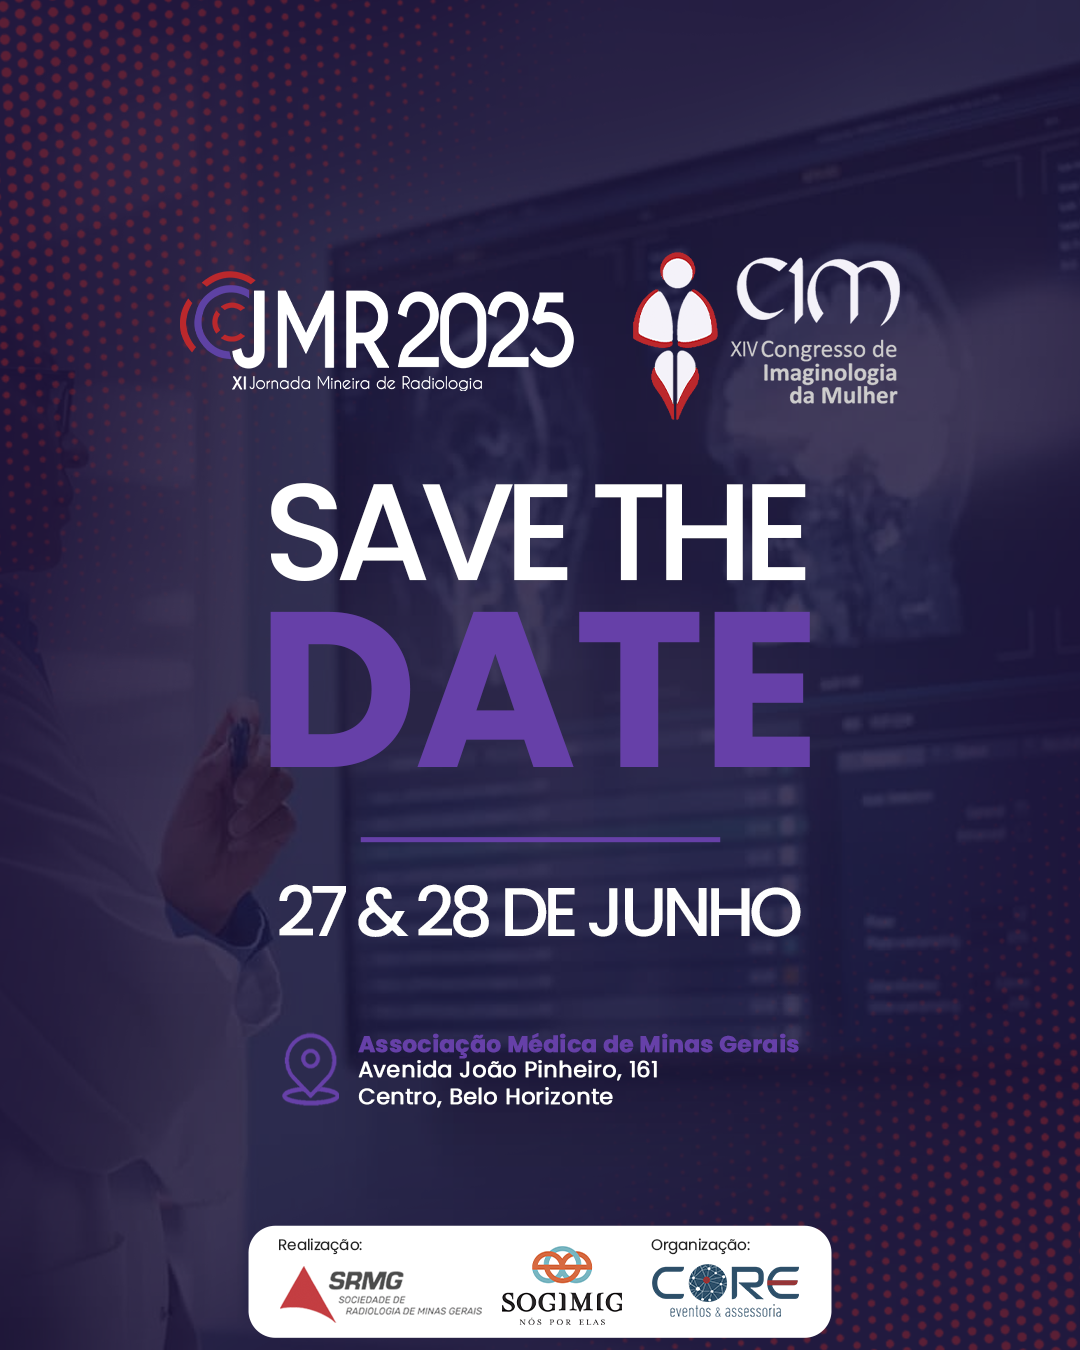
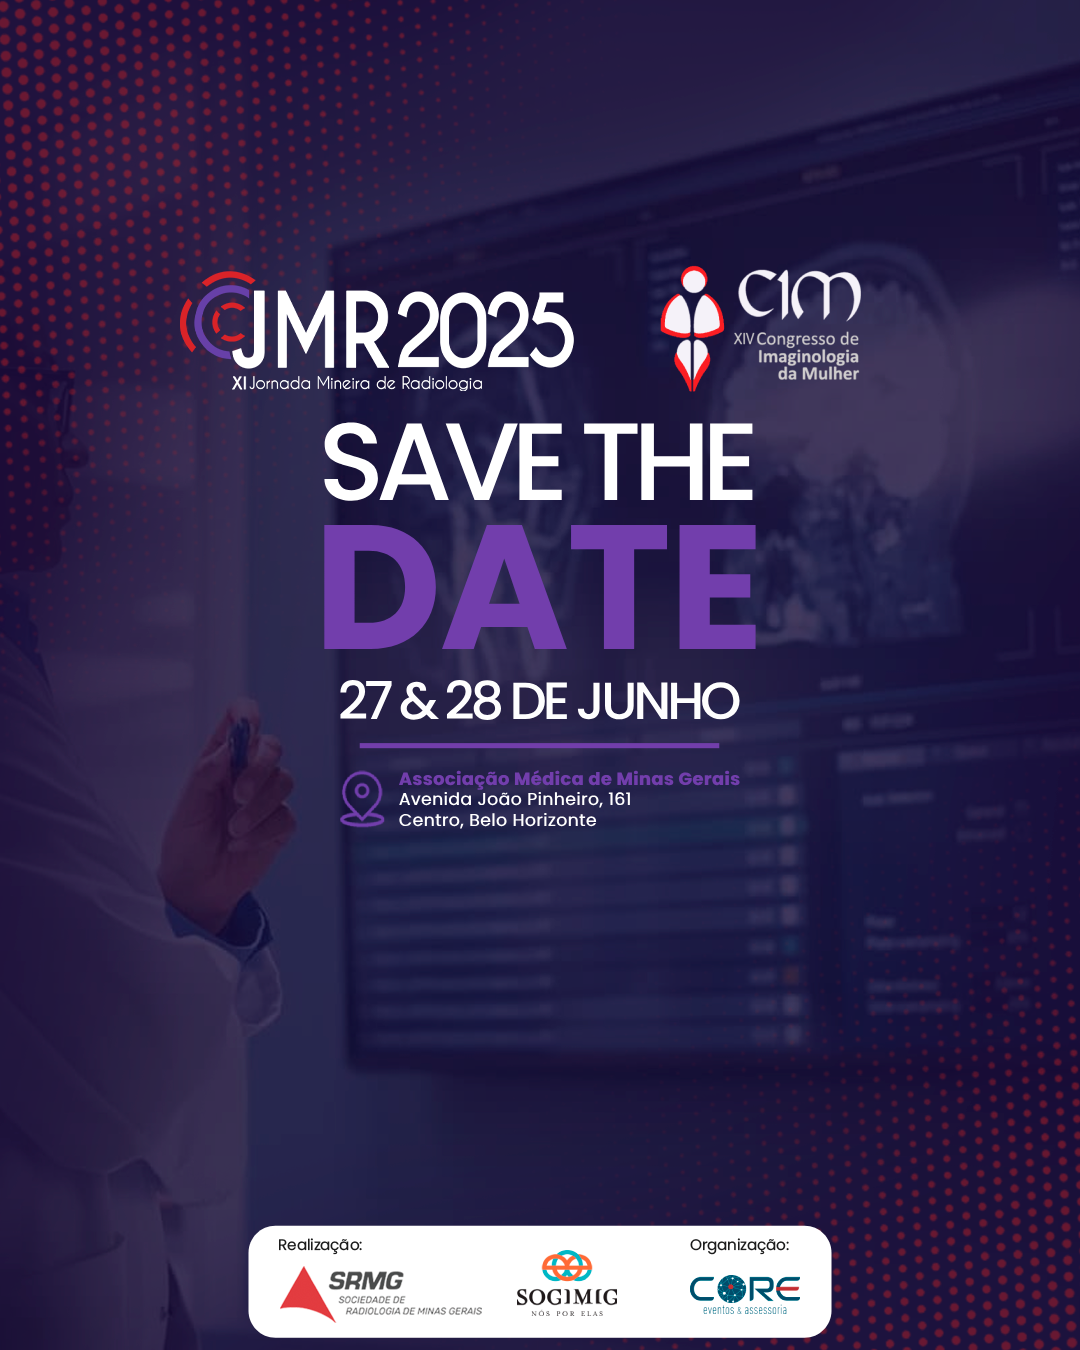
Endereço raiz passa a apresentar /2025 (SaveTheDate)

diff --git a/app/page.js b/app/page.js
@@ -1,40 +1,33 @@
-import Banner from './components/Banner'
-import Promoters from './components/Promoters'
-import Description from './components/Description'
-import Events from './components/Events'
-import Comission from './components/Comission'
-import Sponsor from './components/Sponsor'
-import Tables from './components/Tables'
-import Header from './components/Header'
-import SocialMedias from './components/SocialMedias'
-import { MapIcon, CalendarIcon, calendarEvent } from './components/icons'
+import Image from 'next/image'
+import saveTheDate from '/public/save_the_date.png'
+import { imagem, container, content, footer } from './page.module.css'
 
 const metadata = {
   title:
-    'X Jornada Mineira de Radiologia e a I Jornada de POCUS ABRAMEDE/MG e SRMG',
+    'Save the date - XI Jornada Mineira de Radiologia e Congresso de Imaginologia da Mulher',
   description:
-    'A X Jornada Mineira de Radiologia e Diagnóstico por Imagem (JMR) e a I Jornada de POCUS ABRAMEDE/MG e SRMG acontecerão nos dias 1º e 2 de novembro de 2024, na Associação Médica de Minas Gerais, em Belo Horizonte. O encontro vai reunir profissionais renomados, especialistas e estudantes para discutir as mais recentes inovações e técnicas em radiologia e ultrassonografia, com foco no aprimoramento de práticas clínicas ligadas ao abdômen, radiologia musculoesquelética e intervenção guiada por imagem. Durante os dias de evento, os participantes terão a oportunidade de assistir a palestras, workshops e mesas-redondas, abordando temas relevantes e atuais que impactam diretamente o dia a dia dos profissionais da saúde. Além disso, a JMR 2024 será uma excelente oportunidade para networking, permitindo a troca de experiências entre colegas e o fortalecimento das conexões profissionais. O evento é promovido pela Sociedade de Radiologia e Diagnóstico por Imagem de Minas Gerais (SRMG) e pela Associação Brasileira de Medicina de Emergência (Abramede) - MG.',
+    'XI Jornada Mineira de Radiologia e Congresso de Imaginologia da Mulher.',
   keywords:
     'Jornada Mineira de Radiologia, Jornada de POCUS, ABRAMEDE, SRMG, Radiologia, Diagnóstico por Imagem, Ultrassonografia, Abdômen, Musculoesquelética, Intervenção Guiada por Imagem, Palestras, Workshops, Mesas-redondas, Networking, Evento, Saúde, Profissionais da Saúde, Belo Horizonte, JMR2024, Abdômen, POCUS, Gastrointestinal, Geniturinario, Mama, MSK, BI-RADS, Intervenção Mamária, Intervenção não Vascular, Hands on, Inovação IA, Inteligêcia Artificial, IA, AI, Programação Científica, Comissão Científica SRMG, Comissão Científica ABRAMEDE, Augusto Antunes, Benito Pio Ceccato Júnior, Elísio José Salgado Ribeiro, Flávio Coelho Barros, Francisco Ribeiro Teixeira Junior, Júlio Guerra Domingues, Luis Ronan MF de Souza, Marcus Vinicius Amorim, Rogerio Augusto Pinto Silva, Thales Matheus M Santos, Adriene Moraes Campos, Anna Christina Gruber, Ivie Braga de Paula, Luciana Costa Silva, Maria Fernanda Borges Abreu, Paula Figueiredo Rocha, Raquel Del Fraro Rabelo, Raquel Sadala Mendes, Arthur Elias de Aguiar Machado, Luiz Ernani Meira Júnior, Marcus Vinicius Melo Andrade, Maria Aparecida Braga, Hermes Pardini, Grupo Fleury, Bayer, Unimed, Unimed BH, São MArcos Dasa, Bracco, Ceu Diagnósticos, CBR, AMMG, Core, Juliano Costa Silva, Juliano Costa, apfjuliano',
   openGraph: {
-    title: 'JMR 2024 - Jornada Mineira de Radiologia',
-    description: 'Junte-se à Jornada Mineira de Radiologia 2024 e descubra as inovações na área de diagnóstico por imagem.',
+    title: 'JMR 2025 - Save the date',
+    description: 'XI Jornada Mineira de Radiologia e Congresso de Imaginologia da Mulher.',
     type: 'website',
-    url: 'https://jornada.srmg.com.br/2024',
+    url: 'https://jornada.srmg.com.br/2025',
     images: [
       {
-        url: 'https://jornada.srmg.com.br/logo_jornada/jmr2024.jpg',
+        url: 'https://jornada.srmg.com.br/save_the_date_share.png',
         width: 1200,
         height: 630,
-        alt: 'JMR 2024 - Jornada Mineira de Radiologia'
+        alt: 'JMR 2025 - save_the_date.png'
       }
     ]
   },
   twitter: {
     card: 'summary_large_image',
-    title: 'JMR 2024 - Jornada Mineira de Radiologia',
-    description: 'Participe da Jornada Mineira de Radiologia 2024 e fique por dentro das últimas inovações em diagnóstico por imagem.',
-    image: 'https://jornada.srmg.com.br/logo_jornada/jmr2024.jpg'
+    title: 'JMR 2025 - save_the_date.png',
+    description: 'XI Jornada Mineira de Radiologia e Congresso de Imaginologia da Mulher.',
+    image: 'https://jornada.srmg.com.br/save_the_date_share.png'
   }
 }
 
@@ -43,65 +36,19 @@ export async function generateMetadata() {
 }
 
 const Home = () => {
-  const props = {
-    MapIcon,
-    CalendarIcon,
-    calendarEvent,
-    logoName: 'jmr2024.png'
-  }
-  const callToAct = {
-    button01: {
-      // caption: 'Faça sua inscrição',
-      caption: 'Emita o seu certificado',
-      link: 'https://eventosis.com.br/credenciamento/jmr2024/'
-    },
-    button02: {
-      //caption: 'Se inscreva agora na Jornada',
-      caption: 'Emita o seu certificado',
-      link: 'https://eventosis.com.br/credenciamento/jmr2024/'
-    },
-    button03: {
-      // caption: 'Se inscreva Hands On',
-      caption: 'Emita o seu certificado',
-      link: 'https://eventosis.com.br/credenciamento/jmr2024/'
-    },
-    button04: {
-      // caption: 'Se inscreva na Jornada',
-      caption: 'Emita o seu certificado',
-      link: 'https://eventosis.com.br/credenciamento/jmr2024/'
-    },
-    button05: {
-      // caption: 'Se inscreva no Curso de IA',
-      caption: 'Emita o seu certificado',
-      link: 'https://eventosis.com.br/credenciamento/jmr2024/'
-    }
-  }
-
   return (
-    <>
-      <Header
-        props={props}
-      >
-        <SocialMedias />
-      </Header>
-      <Banner
-        lstBannerText={['Emita o seu certificado', 'clicando em um dos botões abaixo.']}
-      />
-      <Description/>
-      <Promoters
-        button={callToAct.button01}
-      />
-      <Events
-        button={callToAct.button02}
-      />
-      <Comission />
-      <Tables
-        buttons={
-          [callToAct.button03, callToAct.button04, callToAct.button05]
-        }
-      />
-      <Sponsor />
-    </>
+    <div className={container}>
+      <div className={content}>
+        <Image
+          src={saveTheDate}
+          alt="Save the date"
+          className={imagem}
+          priority
+        />
+      </div>
+      <div className={footer}>
+      </div>
+    </div>
   )
 }
 

diff --git a/app/2025/page.js b/app/2025/page.js
@@ -1,6 +1,6 @@
 import Image from 'next/image'
 import saveTheDate from '/public/save_the_date.png'
-import { imagem, container, content, footer } from './page.module.css'
+import { imagem, container, content, footer } from '../page.module.css'
 
 const metadata = {
   title:
